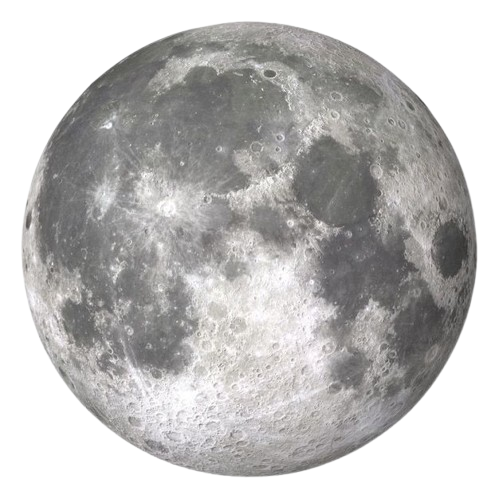
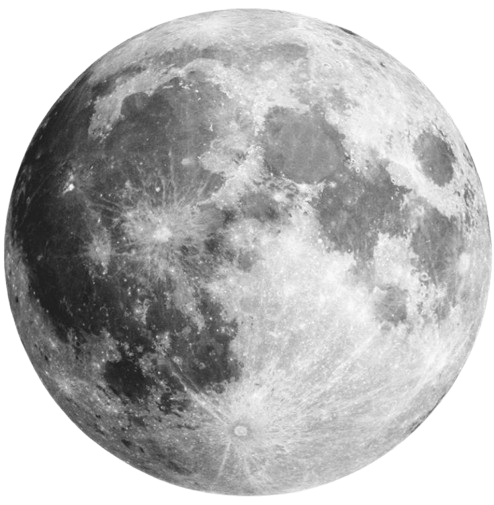
Fix Moon size and glow animation - set to 100px with proper moonPulse effect

diff --git a/styles.css b/styles.css
@@ -431,12 +431,10 @@ body {
 .planet-img[alt="The Moon"],
 .planet-img[alt="Moon"],
 #moons-image {
-    width: 150px !important;
-    height: 150px !important;
+    width: 100px !important;
+    height: 100px !important;
     animation: moonPulse 4s ease-in-out infinite;
     position: relative;
-    z-index: 1;
-    transition: transform 0.3s ease, filter 0.3s ease;
 }
 
 
@@ -610,6 +608,114 @@ body {
     color: white;
     font-weight: bold;
     box-shadow: 0 0 15px rgba(0, 255, 136, 0.3);
+}
+
+/* Planet Display */
+.planet-display {
+    flex: 1;
+    display: flex;
+    flex-direction: column;
+    align-items: center;
+    justify-content: flex-start; /* Changed from center to flex-start */
+    position: relative;
+    height: 450px; /* Increased height to accommodate lower positioning */
+    margin: 0;
+    padding-top: 50px; /* Added padding to push content down */
+    overflow: visible;
+}
+
+.planet-image {
+    width: 100%;
+    display: flex;
+    align-items: center;
+    justify-content: center;
+    position: relative;
+    z-index: 1;
+    margin: 0;
+    padding: 0;
+    height: 100%;
+}
+
+.planet-img {
+    max-width: 90%;
+    max-height: 90%;
+    object-fit: contain;
+    border-radius: 50%;
+    transition: all 0.3s ease;
+    cursor: pointer;
+    position: relative;
+    margin: 0 auto;
+    display: block;
+}
+
+.planet-img[alt="The Sun"],
+.planet-img[alt="Sun"] {
+    width: 380px !important;
+    height: 380px !important;
+    animation: sunPulse 4s ease-in-out infinite;
+}
+
+.planet-img[alt="Mercury"] {
+    width: 180px !important;
+    height: 180px !important;
+    animation: mercuryPulse 4s ease-in-out infinite;
+}
+
+.planet-img[alt="Venus"] {
+    width: 240px !important;
+    height: 240px !important;
+    animation: venusPulse 4s ease-in-out infinite;
+}
+
+.planet-img[alt="Earth"] {
+    width: 250px !important;
+    height: 250px !important;
+    animation: earthPulse 4s ease-in-out infinite;
+}
+
+.planet-img[alt="Mars"] {
+    width: 200px !important;
+    height: 200px !important;
+    animation: marsPulse 4s ease-in-out infinite;
+}
+
+.planet-img[alt="Jupiter"] {
+    width: 400px !important;
+    height: 400px !important;
+    animation: jupiterPulse 4s ease-in-out infinite;
+}
+
+.planet-img[alt="Saturn"] {
+    width: 450px !important;
+    height: 450px !important;
+    animation: saturnPulse 4s ease-in-out infinite;
+}
+
+.planet-img[alt="Uranus"] {
+    width: 280px !important;
+    height: 280px !important;
+    animation: uranusPulse 4s ease-in-out infinite;
+}
+
+.planet-img[alt="Neptune"] {
+    width: 330px !important;
+    height: 330px !important;
+    animation: neptunePulse 4s ease-in-out infinite;
+}
+
+/* Hover effect for all planets - removes glow */
+.planet-img:hover {
+    transform: scale(1.05);
+    animation: none !important;
+    filter: brightness(1.1) saturate(1.1);
+}
+
+/* Special case for Sun to make it slightly larger on hover */
+.planet-img[alt="The Sun"]:hover,
+.planet-img[alt="Sun"]:hover {
+    transform: scale(1.1);
+    animation: none !important;
+    filter: brightness(1.1) saturate(1.1);
 }
 
 @keyframes rotate {

diff --git a/script.js b/script.js
@@ -243,19 +243,6 @@ document.addEventListener('DOMContentLoaded', function() {
                     newImg.alt = objectData.name;
                     newImg.className = 'planet-img';
                     
-                    // Special handling for Moon to ensure glow effect
-                    if (objectId === 'moons') {
-                        newImg.id = 'moons-image';
-                        // Force reflow to ensure styles are applied
-                        void newImg.offsetHeight;
-                    }
-                    
-                    // Set specific size for Moon
-                    if (objectId === 'moons') {
-                        newImg.style.width = '180px';
-                        newImg.style.height = '180px';
-                    }
-                    
                     newImg.onload = function() {
                         newImg.style.opacity = '1';
                     };
